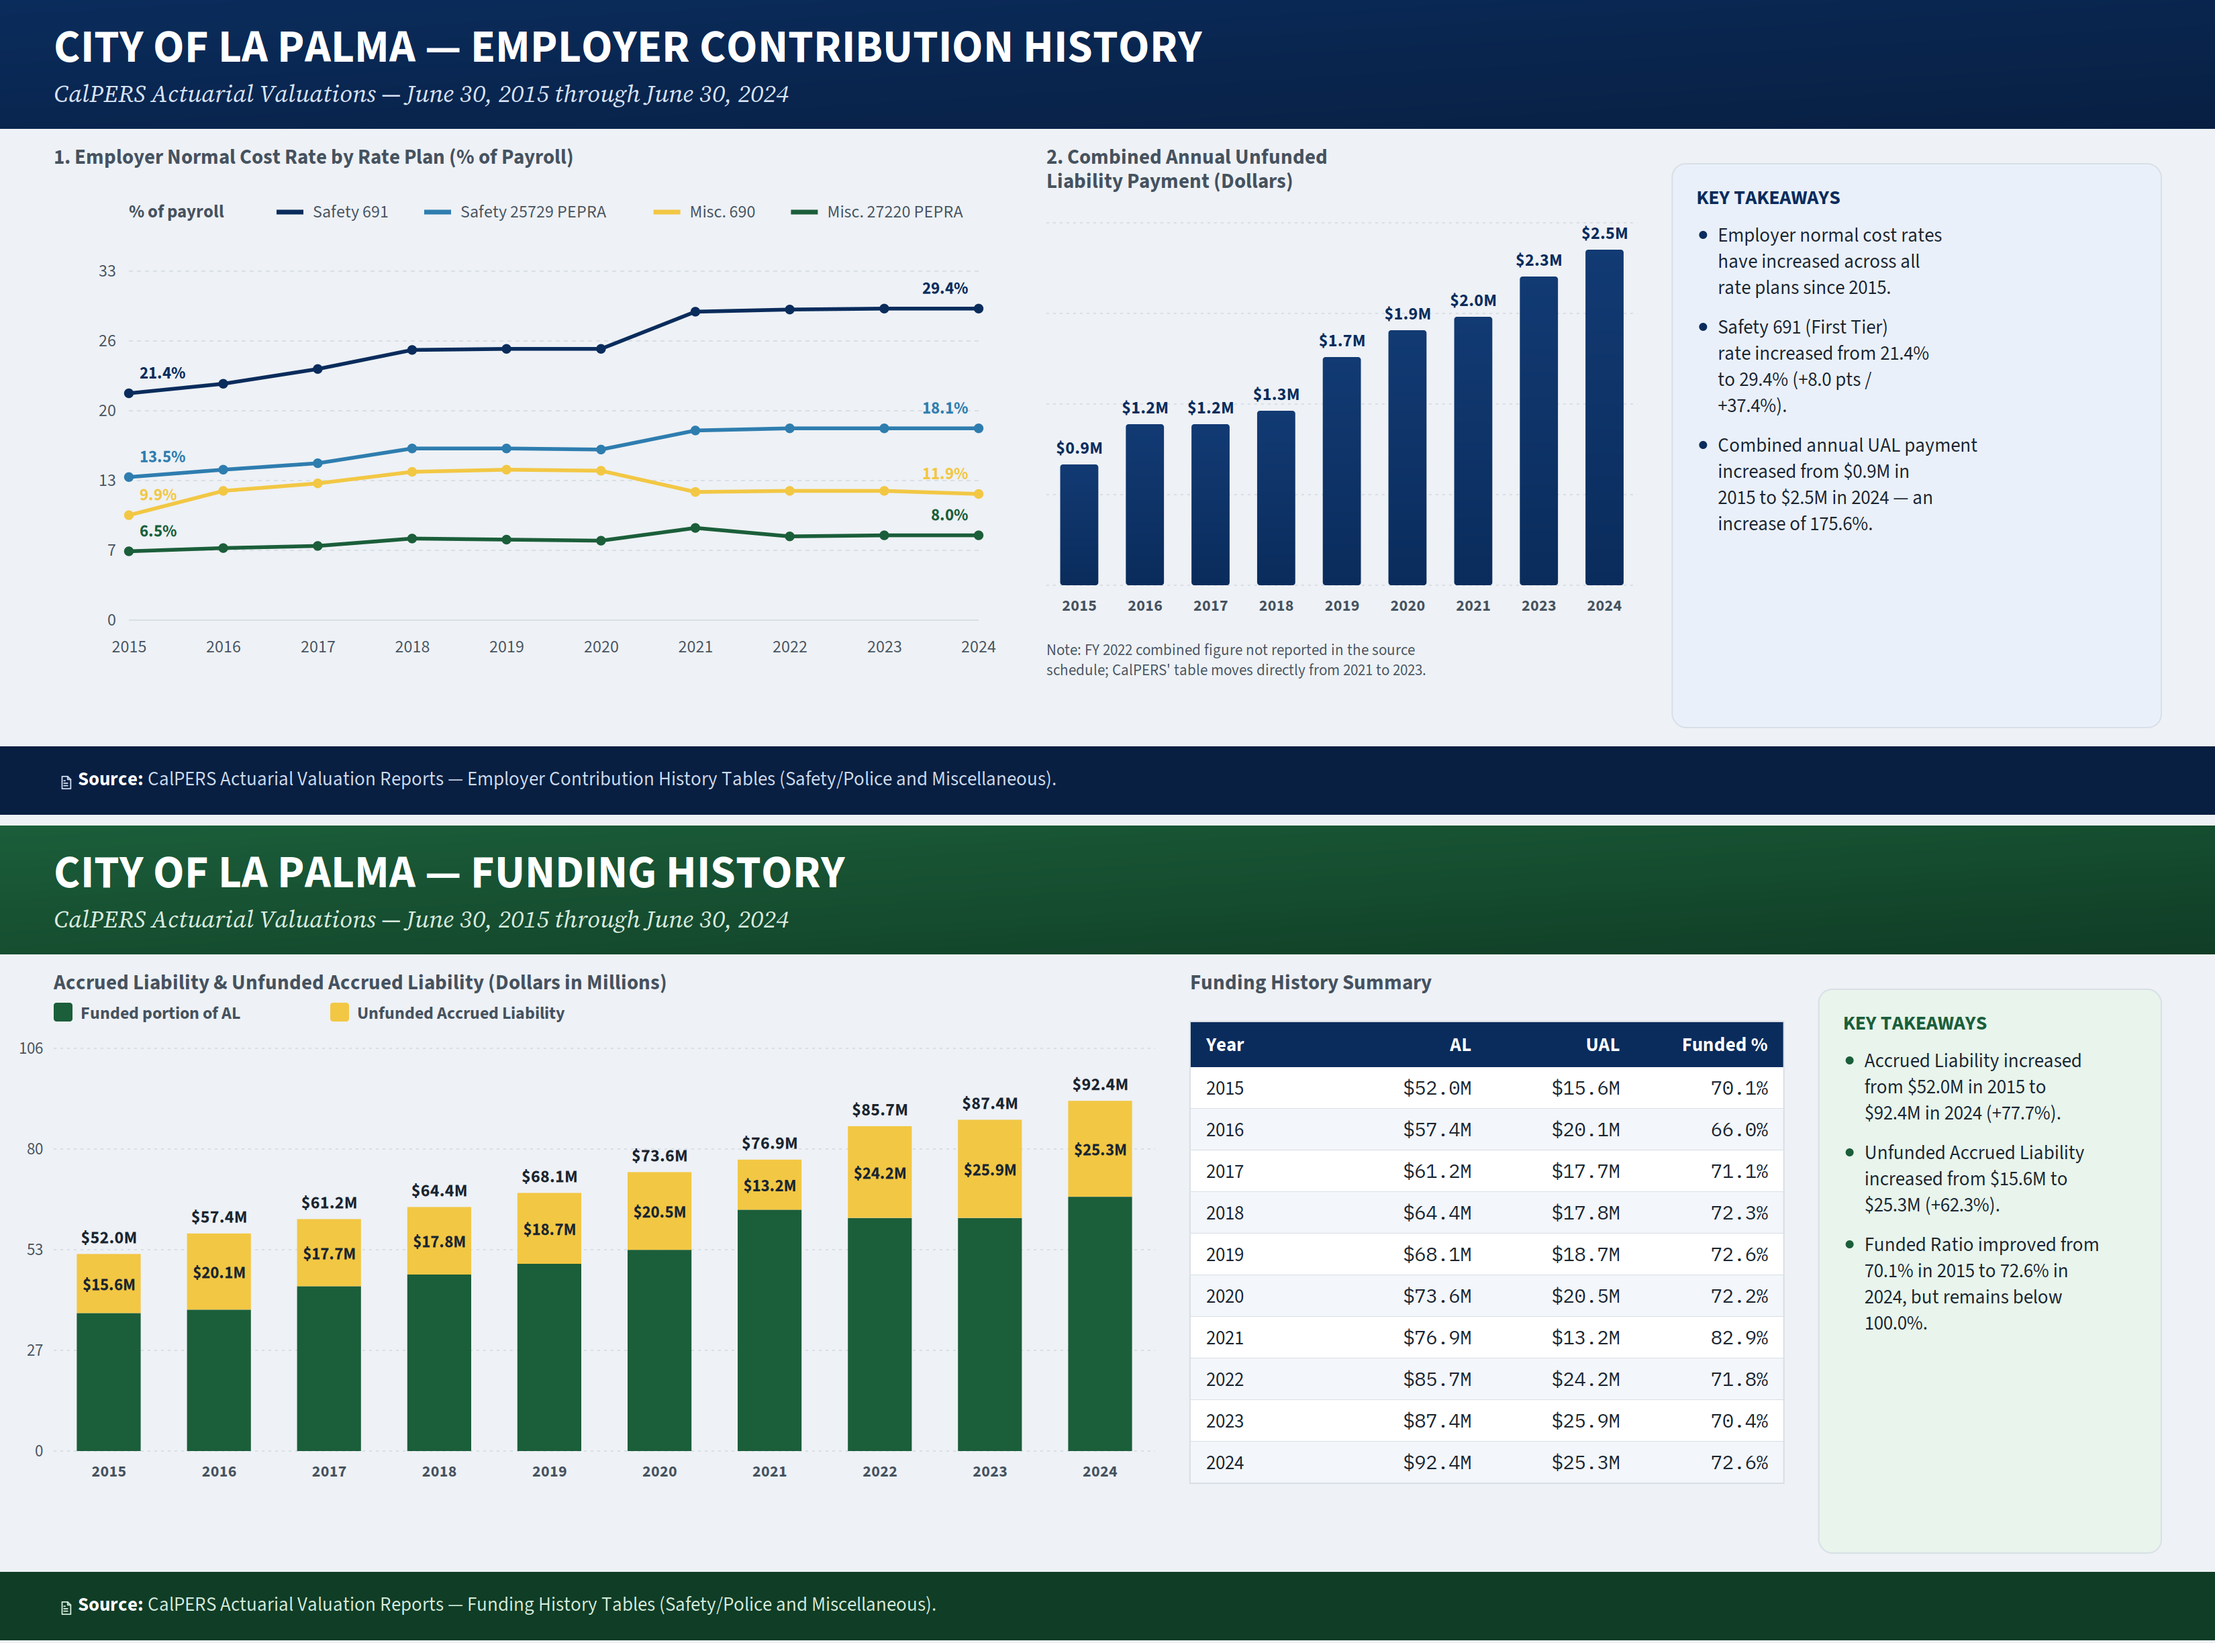
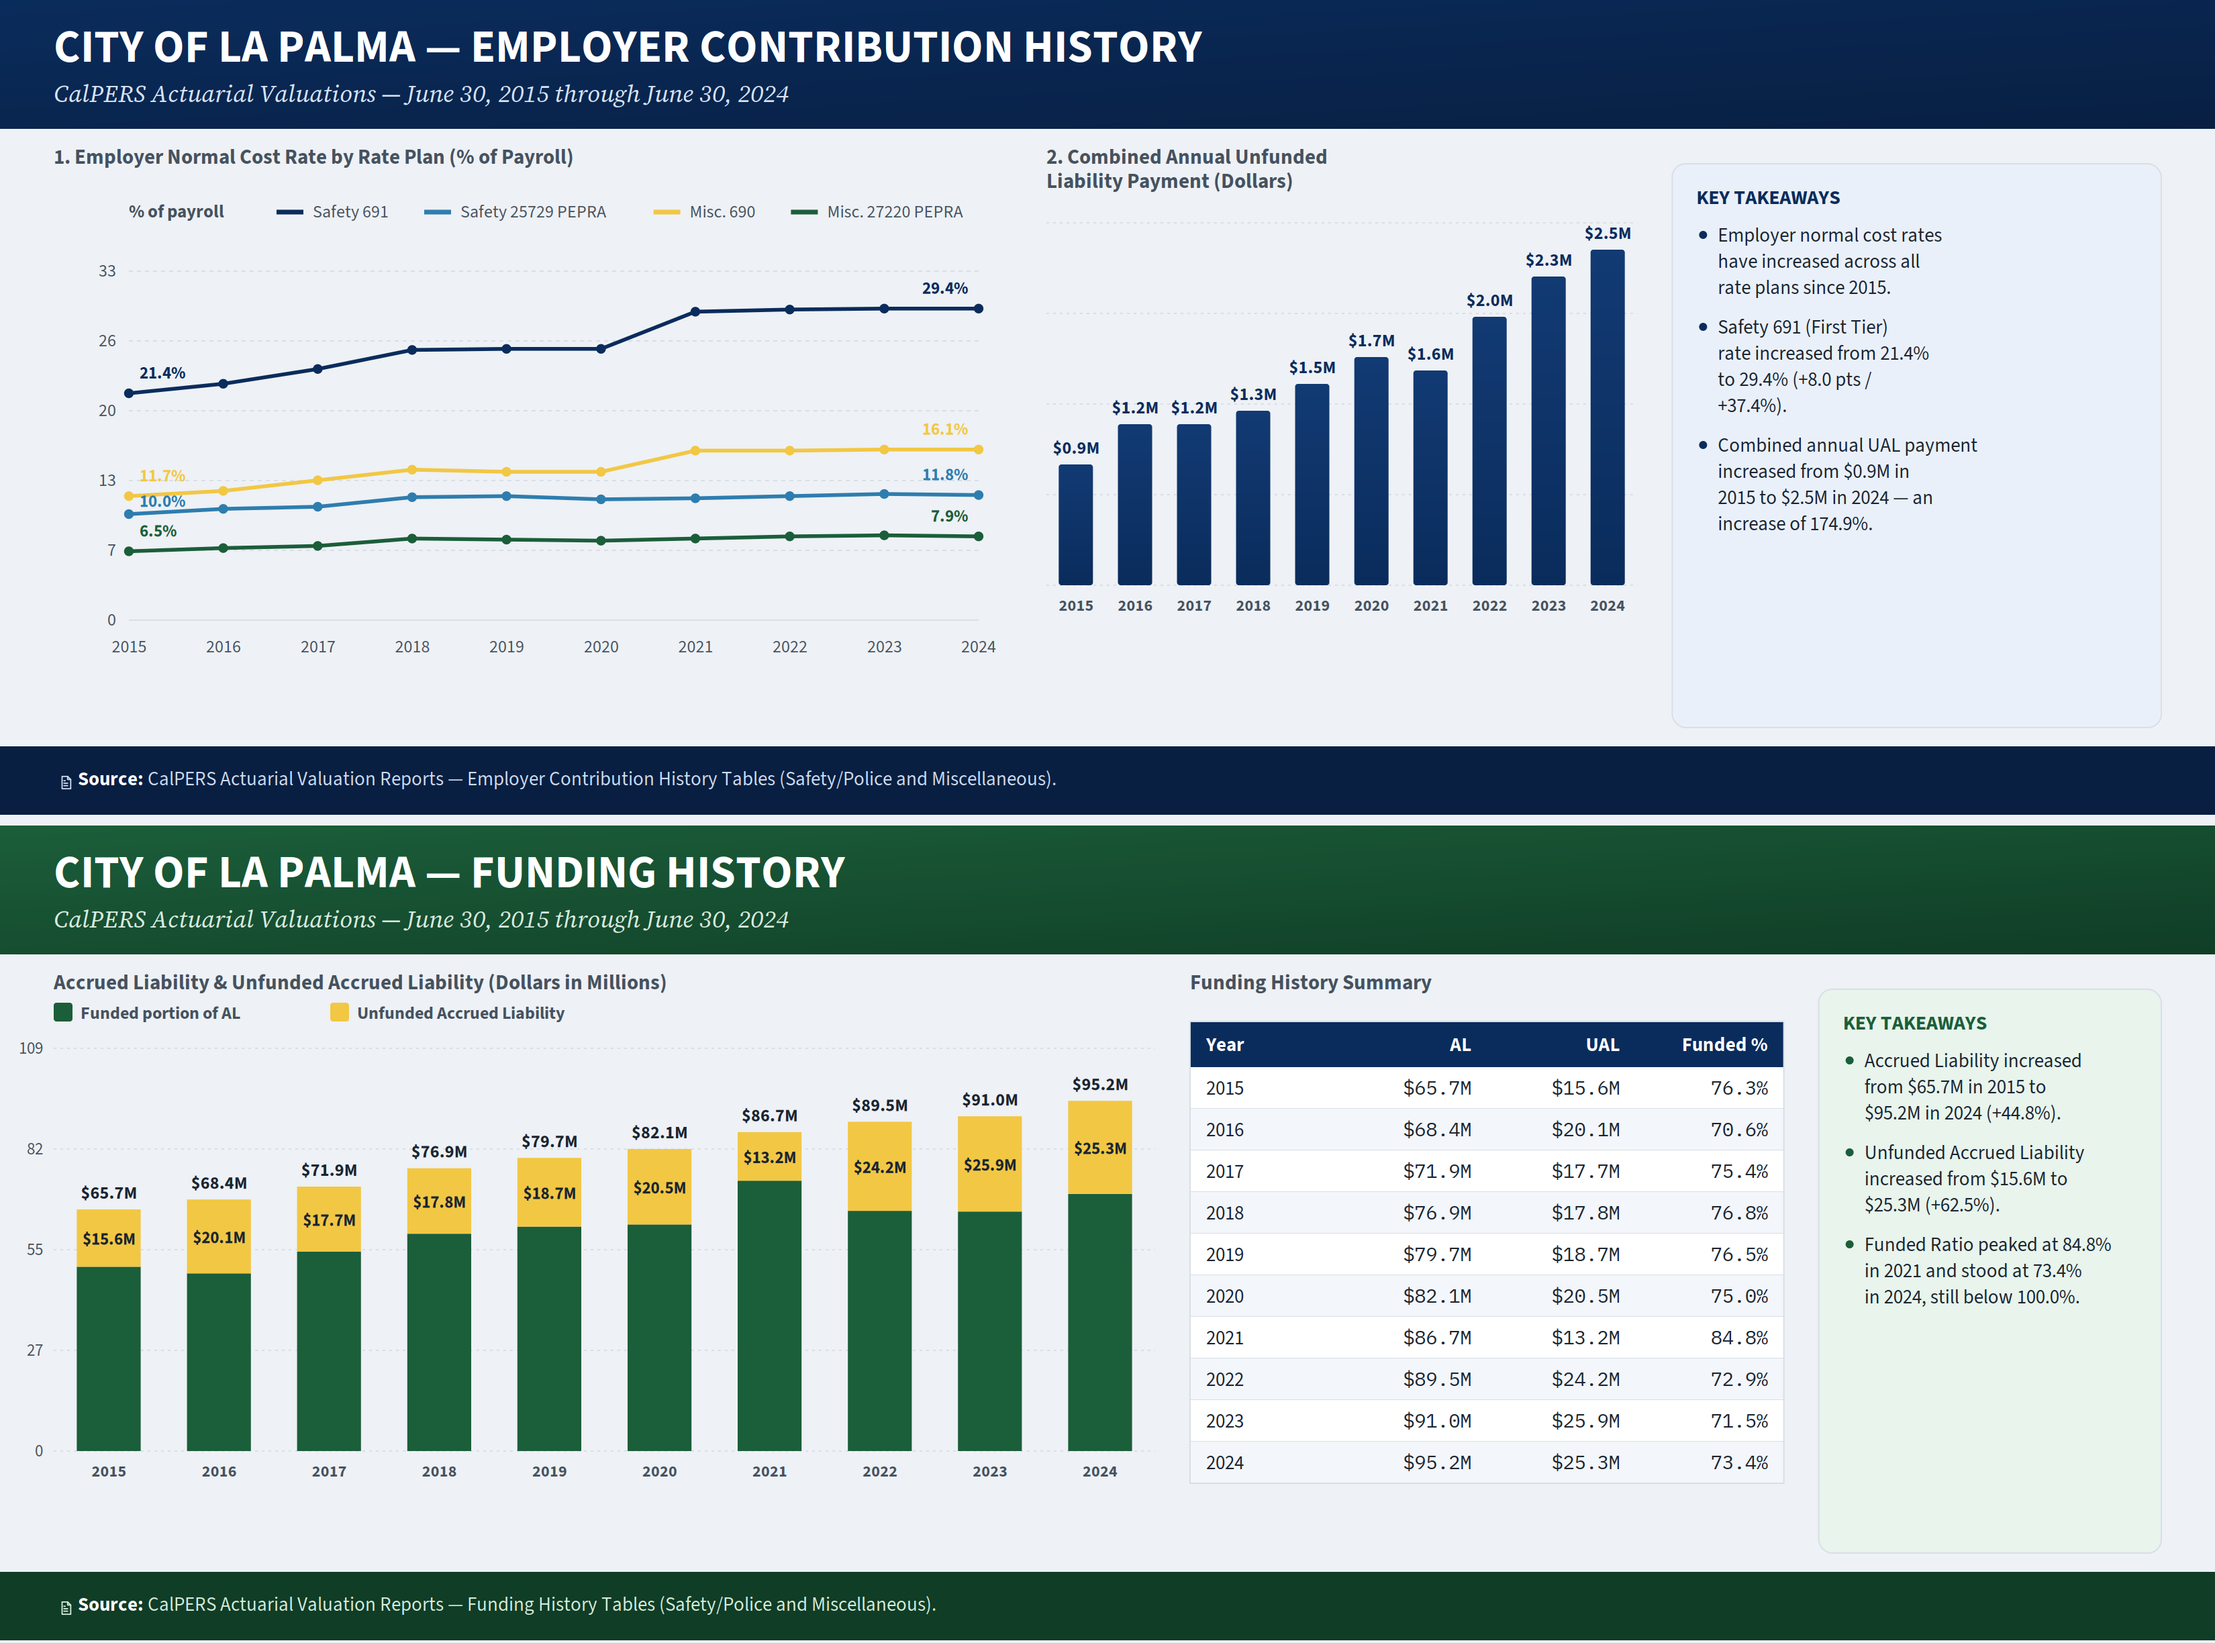
Add files via upload

diff --git a/pension-record.html b/pension-record.html
@@ -150,7 +150,7 @@
           <summary><span class="tl-date">CalPERS, June 30, 2024</span><span class="tl-teaser">$25.3M combined UAL — not paid off, and not projected to be until roughly 2040–41</span></summary>
           <div class="tl-body">
             <span class="tag tag-documented">Documented — CalPERS' own actuarial valuation reports</span>
-            <p class="entry entry-wide">The most recent actuarial valuations CalPERS has published for the City's two pension plans — Safety (Police) and Miscellaneous — set required contributions for Fiscal Year 2026-27, immediately following the nine-year period in which the campaign's own chart said the pension debt would be paid off and the surplus realized (by FY 2025-26). These valuations are prepared on a different basis than the ACFR-sourced Net Pension Liability figures cited above — CalPERS measures funding-basis UAL against the market value of plan assets, while audited financial statements use the GASB 68 basis — so the two sets of figures are not directly interchangeable, and both are presented here on their own terms. Per CalPERS' own June 30, 2024 reports for the City of La Palma (CalPERS ID: 3770853942), available through <a class="source-link" href="https://www.calpers.ca.gov/employers/actuarial-resources/public-agency-actuarial-valuation-reports" target="_blank" rel="noopener">CalPERS' Public Agency Actuarial Valuation Reports lookup</a>:</p>
+            <p class="entry entry-wide">The most recent actuarial valuations CalPERS has published for the City's two pension plans — <a class="source-link" href="CalPERS-Safety-Valuation-2024.pdf" target="_blank" rel="noopener">Safety (Police)</a> and <a class="source-link" href="CalPERS-Miscellaneous-Valuation-2024.pdf" target="_blank" rel="noopener">Miscellaneous</a> — set required contributions for Fiscal Year 2026-27, immediately following the nine-year period in which the campaign's own chart said the pension debt would be paid off and the surplus realized (by FY 2025-26). These valuations are prepared on a different basis than the ACFR-sourced Net Pension Liability figures cited above — CalPERS measures funding-basis UAL against the market value of plan assets, while audited financial statements use the GASB 68 basis — so the two sets of figures are not directly interchangeable, and both are presented here on their own terms. Per CalPERS' own June 30, 2024 reports for the City of La Palma (CalPERS ID: 3770853942), available through <a class="source-link" href="https://www.calpers.ca.gov/employers/actuarial-resources/public-agency-actuarial-valuation-reports" target="_blank" rel="noopener">CalPERS' Public Agency Actuarial Valuation Reports lookup</a>:</p>
             <ul class="facts" style="margin-bottom:22px;max-width:none;">
         <li>Combined unfunded accrued liability (UAL), both plans, as of June 30, 2024: <strong><em>$25,322,950</em></strong> ($15,539,980 Safety + $9,782,970 Miscellaneous) — not paid off, and higher in dollar terms than the $15,583,758 combined UAL shown in CalPERS' own funding-history tables for June 30, 2015, the earliest year those reports show.</li>
         <li>Combined funded ratio: <strong><em>73.4%</em></strong> (Safety 71.5%, Miscellaneous 75.9%) — more than a quarter of the liability remains unfunded.</li>
@@ -164,10 +164,10 @@
         <details class="tl-entry">
           <summary><span class="tl-date">The trend, charted</span><span class="tl-teaser">Nine years, nine straight increases — contribution rates and the unfunded liability both climbed every year</span></summary>
           <div class="tl-body">
-            <p class="entry entry-wide">CalPERS publishes the underlying employer contribution rates and funding-history figures every year; the numbers above are the two most recent data points in a nine-year climb, not an isolated bad year. Charted below, using CalPERS' own Actuarial Valuation Reports from June 30, 2015 through June 30, 2024: the employer normal cost rate on every one of the City's four rate plans has risen every year since 2015, led by the Safety (police) first-tier plan, which climbed from 21.4% of payroll in 2015 to 29.4% in 2024; the combined annual UAL payment grew from $0.9 million to $2.5 million over the same period, a 175.6% increase; and while the City's total pension Accrued Liability grew 77.7% (from $52.0 million to $92.4 million), the Unfunded Accrued Liability grew faster in dollar terms — from $15.6 million to $25.3 million — leaving the funded ratio at approximately 72.6% in 2024 by this Accrued-Liability-basis calculation (CalPERS' own reported market-value funded ratio, cited above, is 73.4%; the two figures use slightly different bases and are not directly interchangeable), still short of where it stood at its 2021 peak of 82.9% and still well short of fully funded.</p>
+            <p class="entry entry-wide">CalPERS publishes the underlying employer contribution rates and funding-history figures every year; the numbers above are the two most recent data points in a nine-year climb, not an isolated bad year. Charted below, using CalPERS' own Actuarial Valuation Reports from June 30, 2015 through June 30, 2024: the employer normal cost rate on every one of the City's four rate plans has risen every year since 2015, led by the Safety (police) first-tier plan, which climbed from 21.4% of payroll in 2015 to 29.4% in 2024; the combined annual UAL payment grew from $0.9 million to $2.5 million over the same period, a 174.9% increase; and while the City's total pension Accrued Liability grew 44.8% (from $65.7 million to $95.2 million), the Unfunded Accrued Liability grew faster in percentage terms — from $15.6 million to $25.3 million, a 62.5% increase — leaving the funded ratio at 73.4% in 2024, still short of where it stood at its 2021 peak of 84.8% and still well short of fully funded.</p>
             <figure class="chart-figure">
         <a href="calpers-employer-contribution-funding-history.png" target="_blank" rel="noopener" aria-label="Open full-size chart in a new tab">
-          <img src="calpers-employer-contribution-funding-history.png" alt="Two-panel CalPERS dashboard for the City of La Palma, June 30, 2015 through June 30, 2024. Top panel: employer normal cost rate by rate plan, showing Safety 691 rising from 21.4% to 29.4% of payroll, and combined annual unfunded liability payment rising from $0.9 million to $2.5 million. Bottom panel: Accrued Liability and Unfunded Accrued Liability by year, showing Accrued Liability growing from $52.0 million to $92.4 million and Unfunded Accrued Liability growing from $15.6 million to $25.3 million, with a funding history summary table listing AL, UAL, and funded percentage for every year 2015-2024." loading="lazy">
+          <img src="calpers-employer-contribution-funding-history.png" alt="Two-panel CalPERS dashboard for the City of La Palma, June 30, 2015 through June 30, 2024. Top panel: employer normal cost rate by rate plan, showing Safety 691 rising from 21.4% to 29.4% of payroll, and combined annual unfunded liability payment rising from $0.9 million to $2.5 million. Bottom panel: Accrued Liability and Unfunded Accrued Liability by year, showing Accrued Liability growing from $65.7 million to $95.2 million and Unfunded Accrued Liability growing from $15.6 million to $25.3 million, with a funding history summary table listing AL, UAL, and funded percentage for every year 2015-2024." loading="lazy">
         </a>
         <figcaption><span class="zoom-hint">Tap image to view full size</span>Nine years of CalPERS' own Actuarial Valuation Reports for the City of La Palma (Safety and Miscellaneous plans combined), June 30, 2015 through June 30, 2024: employer normal cost rates by plan, the combined annual UAL payment, and Accrued Liability vs. Unfunded Accrued Liability with a full year-by-year funding history table. Source: CalPERS Actuarial Valuation Reports, Employer Contribution History and Funding History tables (Safety/Police and Miscellaneous).</figcaption>
       </figure>
@@ -211,6 +211,8 @@
         <h3>Read the primary records yourself</h3>
         <p class="docs-note">Cited above, at the point in the timeline each supports.</p>
         <ul class="docs-list">
+          <li><a class="source-link" href="CalPERS-Safety-Valuation-2024.pdf" target="_blank" rel="noopener"><span class="docicon">📄</span> CalPERS Actuarial Valuation — Safety Risk Pool, as of June 30, 2024</a></li>
+          <li><a class="source-link" href="CalPERS-Miscellaneous-Valuation-2024.pdf" target="_blank" rel="noopener"><span class="docicon">📄</span> CalPERS Actuarial Valuation — Miscellaneous Risk Pool, as of June 30, 2024</a></li>
           <li><a class="source-link" href="https://www.calpers.ca.gov/employers/actuarial-resources/public-agency-actuarial-valuation-reports" target="_blank" rel="noopener"><span class="docicon">📄</span> CalPERS Public Agency Actuarial Valuation Reports (City of La Palma, ID 3770853942)</a></li>
         </ul>
         <a class="docs-more" href="sources.html">View the full source library →</a>

diff --git a/sources.html b/sources.html
@@ -190,8 +190,8 @@
 
       <p class="src-sub">CalPERS Actuarial Valuations &amp; Campaign Financial Materials</p>
       <ul class="src-list">
-        <li>California Public Employees' Retirement System, Actuarial Valuation for the Rate Plans of the City of La Palma in the Safety Risk Pool as of June 30, 2024 (required contributions for FY 2026–27)</li>
-        <li>California Public Employees' Retirement System, Actuarial Valuation for the Rate Plans of the City of La Palma in the Miscellaneous Risk Pool as of June 30, 2024 (required contributions for FY 2026–27)</li>
+        <li><a href="CalPERS-Safety-Valuation-2024.pdf" target="_blank" rel="noopener">California Public Employees' Retirement System, Actuarial Valuation for the Rate Plans of the City of La Palma in the Safety Risk Pool as of June 30, 2024</a> (required contributions for FY 2026–27)</li>
+        <li><a href="CalPERS-Miscellaneous-Valuation-2024.pdf" target="_blank" rel="noopener">California Public Employees' Retirement System, Actuarial Valuation for the Rate Plans of the City of La Palma in the Miscellaneous Risk Pool as of June 30, 2024</a> (required contributions for FY 2026–27)</li>
         <li>Yes on Measure JJ — La Palma, "What Fiscally Sound Looks Like" (campaign webpage, archived; page states "Last edited May 5, 2021")</li>
       </ul>
 
